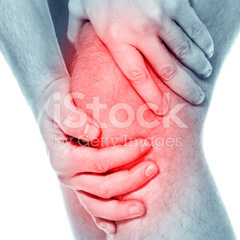
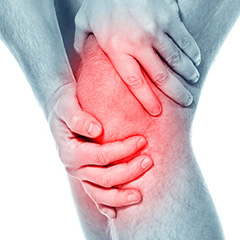
2016-08-24

diff --git a/index.php b/index.php
@@ -10,7 +10,7 @@ include "header.php";
 <script type="text/javascript" src="inc/jquery.cycle2.scrollVert.min.js"></script>
 <div class="cycle-slideshow" data-cycle-slides="> div" data-cycle-timeout="8000" data-cycle-pause-on-hover="true" data-cycle-fx="scrollVert" data-cycle-pager-template="<span></span>">
   <p class="cycle-pager vertical"></p>
-  
+
   <div style="background-image: url(images/banner-hockey.jpg);"><div class="overlay">
     <div class="site-width">
       <h3>MARK WICHMAN, MD &amp; MATTHEW WICHMAN, MD ENJOY SERVING THE COMMUNITY THEY LIVE AND WORK IN.</h3>
@@ -22,7 +22,7 @@ include "header.php";
         <img src="images/banner-logo-highlanders.png" alt="">
       </div>
 
-      <a href="#" class="orange-button">LEARN MORE</a>
+      <a href="our-practice.php" class="orange-button">LEARN MORE</a>
     </div>
   </div></div>
 
@@ -30,7 +30,7 @@ include "header.php";
     <div class="site-width">
       <h2>SPORTS MEDICINE</h2>
       We Specialize in <strong>Sports Medicine</strong>, <strong>Knee</strong>, <strong>Shoulder</strong> and <strong>Hip</strong>.<br>
-      <a href="#" class="orange-button more-bike">DISCOVER MORE</a>
+      <a href="sports-medicine.php" class="orange-button more-bike">DISCOVER MORE</a>
     </div>
   </div></div>
 </div>
@@ -38,7 +38,7 @@ include "header.php";
 <div class="banner">
   <div class="site-width">
     <div class="one-third">
-      <a href="#"><img src="images/banner-icon-education.png" alt=""> PATIENT EDUCATION</a>
+      <a href="education.php"><img src="images/banner-icon-education.png" alt=""> PATIENT EDUCATION</a>
     </div>
 
     <div class="one-third">
@@ -46,7 +46,7 @@ include "header.php";
     </div>
 
     <div class="one-third">
-      <a href="#"><img src="images/banner-icon-appointment.png" alt=""> APPOINTMENT</a>
+      <a href="appointments.php"><img src="images/banner-icon-appointment.png" alt=""> APPOINTMENT</a>
     </div>
   </div>
 </div>
@@ -58,7 +58,7 @@ include "header.php";
       <div class="wl-wrap"></div>
 
       <h5>DR. MATTHEW P. WICHMAN, MD</h5>
-      Lorem ipsum dolor sit amet, consectetur adipisicing elit, sed do eiusmod tempor incididunt ut labore et dolore magna aliqua.<br>
+      Specializing in Orthopedic Surgery<br>
       <a href="https://www.linkedin.com/in/matthew-wichman-md-1342b477" class="social linkedin"><i class="fa fa-linkedin" aria-hidden="true"></i></a><br>
       <a href="matthew-wichman.php" class="more">READ FULL PROFILE</a>
     </div>
@@ -67,7 +67,7 @@ include "header.php";
       <div class="wr-wrap"></div>
 
       <h5>DR. MARK T. WICHMAN, MD</h5>
-      Lorem ipsum dolor sit amet, consectetur adipisicing elit, sed do eiusmod tempor incididunt ut labore et dolore magna aliqua.<br>
+      Specializing in Orthopedic Sports Medicine &amp; Orthopedic Surgery<br>
       <a href="https://www.linkedin.com/in/drmarkwichman" class="social linkedin"><i class="fa fa-linkedin" aria-hidden="true"></i></a><br>
       <a href="mark-wichman.php" class="more">READ FULL PROFILE</a>
     </div>
@@ -78,11 +78,10 @@ include "header.php";
   <div class="site-width">
     <div class="col1">
       <h2>SPECIALIZING IN SPORTS MEDICINE</h2>
-      Lorem ipsum dolor sit amet, consectetur adipisicing elit, sed do eiusmod tempor incididunt ut labore et dolore magna aliqua. Ut enim ad minim veniam, quis nostrud exercitation ullamco laboris nisi ut aliquip ex ea commodo consequat.<br>
+      Mark Wichman MD and Matthew Wichman MD have been practicing orthopedic surgeons for over 30 years combined. Both doctors have families, close ties to Southeastern Wisconsin and work closely with national sports teams. The doctors are focused on taking care of each patient, offering a varied and tailored diagnostic treatment unique to each individual.<br>
       <br>
-      Lorem ipsum dolor sit amet, consectetur adipisicing elit, sed do eiusmod tempor incididunt ut labore et dolore magna aliqua. Ut enim ad minim veniam, quis nostrud exercitation ullamco laboris nisi ut aliquip ex ea commodo consequat.<br>
-      <br>
-      <a href="#">LEARN MORE</a>
+
+      <a href="sports-medicine.php">LEARN MORE</a>
     </div>
 
     <div class="col2">

diff --git a/knee.php b/knee.php
@@ -46,10 +46,8 @@ include "header.php";
   There are two types of "cartilage" in the knee. The surface cartilage (also called articular cartilage) lines the surfaces of the joint. When we are eating chicken and breaking open the chicken bone, for example, we see that smooth glistening surface. That is the articular cartilage. The meniscus is the second type of cartilage in the knee and is a bushing between the smooth articular cartilage surfaces.<br>
   <br>
   <br>
-
-  <div style="float: left; background: purple; height: 275px; width: 48%; margin-right: 4%;"></div>
-  <div style="float: left; background: purple; height: 275px; width: 48%;"></div>
-  <div style="clear: both;"></div>
+  
+  <img src="images/knee3.jpg" alt=""><br>
   <br>
   <br>
 

diff --git a/menu.php b/menu.php
@@ -35,9 +35,9 @@
     </ul>
   </li>
   <li class="contact">
-    <a href="<?php echo $TopDir; ?>contact.php">CONTACT</a>
+    <a href="<?php echo $TopDir; ?>appointments.php">CONTACT</a>
     <ul>
-      <li><a href="<?php echo $TopDir; ?>appointments.php">Appointments</a></li>
+      <li><a href="<?php echo $TopDir; ?>contact.php">Newsletter</a></li>
     </ul>
   </li>
   <li class="mobile"><a href="tel:888-123-4567">APPOINTMENTS</a></li>
